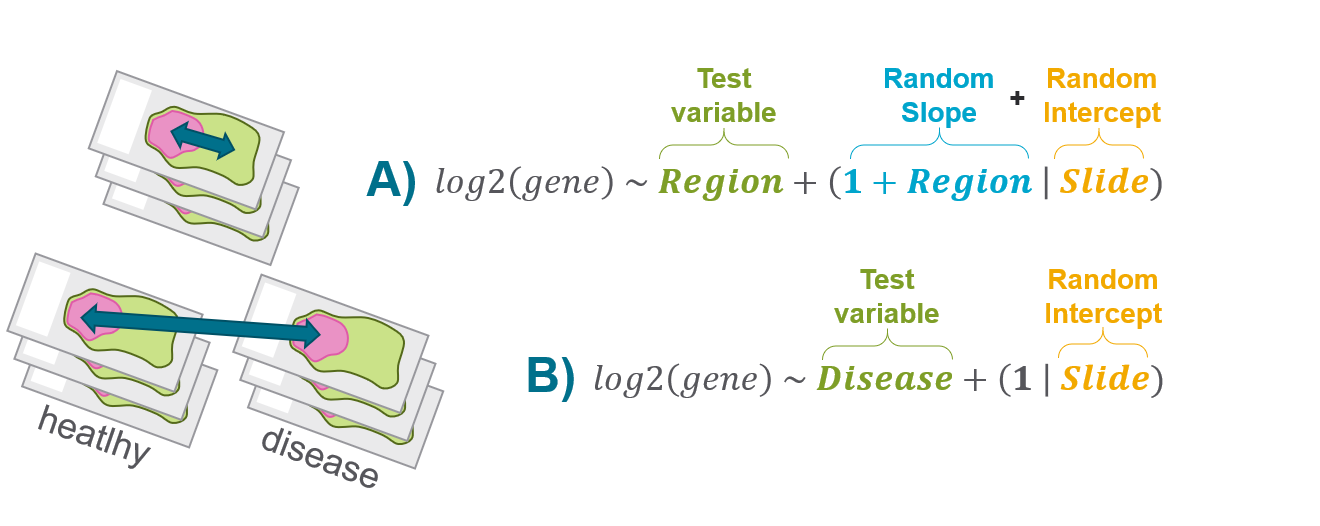
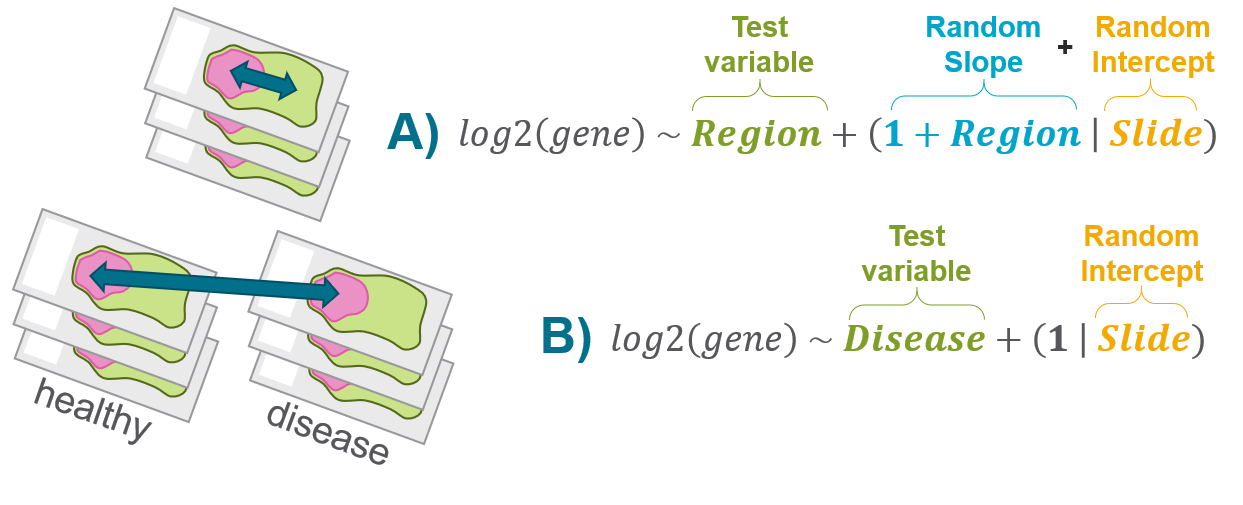
Increment and Figure replacement
Updated workflow figures and increment

diff --git a/NEWS.md b/NEWS.md
@@ -1,3 +1,7 @@
+# GeoMxWorkflows 0.99.4
+
+* Updated workflow image
+
 # GeoMxWorkflows 0.99.3
 
 * Removed empty DCC file from example dataset
